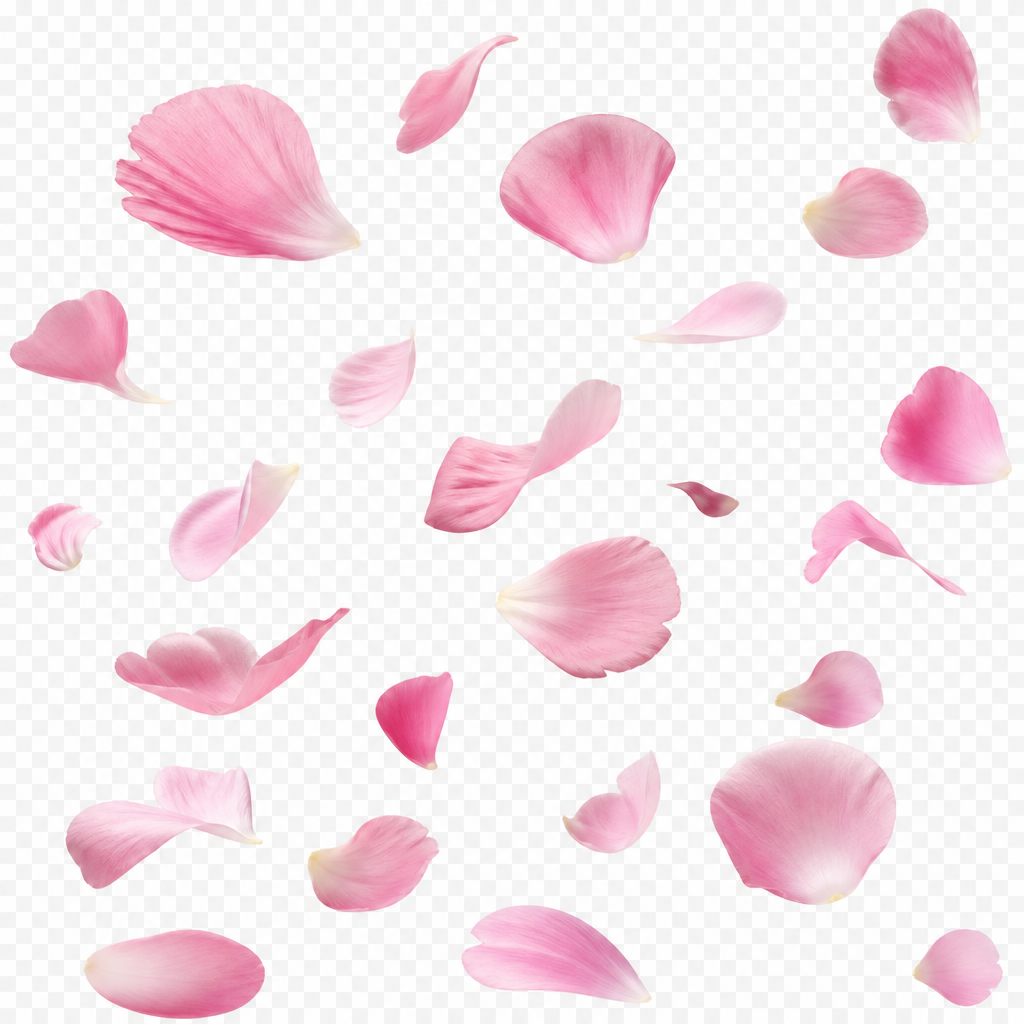
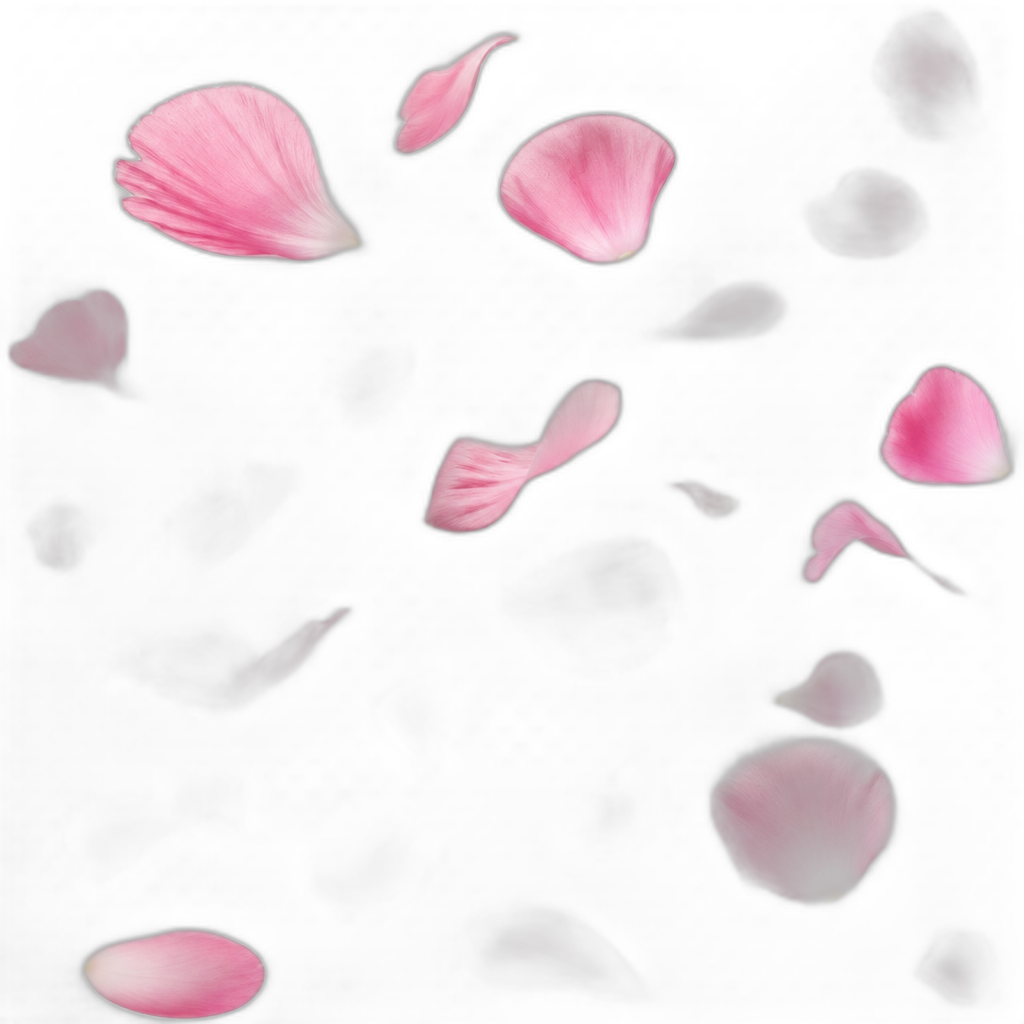
fix(ui): cut out auth petal and bouquet overlays cleanly
Remove baked checkerboard/studio backgrounds from floating floral
overlays so login and signup match the premium hero look.

diff --git a/public/signup.html b/public/signup.html
@@ -12,16 +12,16 @@
   <link rel="stylesheet" href="/bloom-auth.css">
   <link rel="stylesheet" href="/florisyn-brand.css">
   <link rel="stylesheet" href="/florisyn-founder-1.0.css">
-  <link rel="stylesheet" href="/florisyn-atelier-auth.css?v=authhero1">
+  <link rel="stylesheet" href="/florisyn-atelier-auth.css?v=authhero2">
 </head>
 <body class="bloom-auth florisyn florisyn-atelier-auth florisyn-auth-hero florisyn-signup-hero">
   <div class="auth-hero-atmosphere" aria-hidden="true">
     <span class="auth-orb auth-orb-a"></span>
     <span class="auth-orb auth-orb-b"></span>
     <span class="auth-orb auth-orb-c"></span>
-    <img class="auth-petals auth-petals-a" src="/assets/florisyn/florisyn-auth-petals.png?v=authhero1" alt="">
-    <img class="auth-petals auth-petals-b" src="/assets/florisyn/florisyn-auth-petals.png?v=authhero1" alt="">
-    <img class="auth-petals auth-petals-c" src="/assets/florisyn/florisyn-login-florals-corner.png?v=loginmock1" alt="">
+    <img class="auth-petals auth-petals-a" src="/assets/florisyn/florisyn-auth-petals.png?v=authhero2" alt="">
+    <img class="auth-petals auth-petals-b" src="/assets/florisyn/florisyn-auth-petals.png?v=authhero2" alt="">
+    <img class="auth-petals auth-petals-c" src="/assets/florisyn/florisyn-auth-petals.png?v=authhero2" alt="">
   </div>
 
   <header class="auth-hero-nav">
@@ -83,8 +83,8 @@
 
     <section class="auth-hero-visual" aria-label="Florisyn product preview">
       <div class="auth-hero-stage">
-        <img class="auth-hero-devices" src="/assets/florisyn/florisyn-auth-hero-devices.png?v=authhero1" width="1200" height="900" alt="Florisyn dashboard on laptop and phone with fresh floral arrangement">
-        <img class="auth-hero-bloom-float" src="/assets/florisyn/florisyn-auth-bouquet.png?v=authhero1" alt="">
+        <img class="auth-hero-devices" src="/assets/florisyn/florisyn-auth-hero-devices.png?v=authhero2" width="1200" height="900" alt="Florisyn dashboard on laptop and phone with fresh floral arrangement">
+        <img class="auth-hero-bloom-float" src="/assets/florisyn/florisyn-auth-bouquet.png?v=authhero2" alt="">
       </div>
       <div class="auth-hero-visual-copy">
         <p class="eyebrow">14-day free trial</p>

diff --git a/public/login.html b/public/login.html
@@ -12,16 +12,16 @@
   <link rel="stylesheet" href="/bloom-auth.css">
   <link rel="stylesheet" href="/florisyn-brand.css">
   <link rel="stylesheet" href="/florisyn-founder-1.0.css">
-  <link rel="stylesheet" href="/florisyn-atelier-auth.css?v=authhero1">
+  <link rel="stylesheet" href="/florisyn-atelier-auth.css?v=authhero2">
 </head>
 <body class="bloom-auth florisyn florisyn-atelier-auth florisyn-auth-hero florisyn-login-hero">
   <div class="auth-hero-atmosphere" aria-hidden="true">
     <span class="auth-orb auth-orb-a"></span>
     <span class="auth-orb auth-orb-b"></span>
     <span class="auth-orb auth-orb-c"></span>
-    <img class="auth-petals auth-petals-a" src="/assets/florisyn/florisyn-auth-petals.png?v=authhero1" alt="">
-    <img class="auth-petals auth-petals-b" src="/assets/florisyn/florisyn-auth-petals.png?v=authhero1" alt="">
-    <img class="auth-petals auth-petals-c" src="/assets/florisyn/florisyn-login-florals-corner.png?v=loginmock1" alt="">
+    <img class="auth-petals auth-petals-a" src="/assets/florisyn/florisyn-auth-petals.png?v=authhero2" alt="">
+    <img class="auth-petals auth-petals-b" src="/assets/florisyn/florisyn-auth-petals.png?v=authhero2" alt="">
+    <img class="auth-petals auth-petals-c" src="/assets/florisyn/florisyn-auth-petals.png?v=authhero2" alt="">
   </div>
 
   <header class="auth-hero-nav">
@@ -96,8 +96,8 @@
 
     <section class="auth-hero-visual" aria-hidden="true">
       <div class="auth-hero-stage">
-        <img class="auth-hero-devices" src="/assets/florisyn/florisyn-auth-hero-devices.png?v=authhero1" width="1200" height="900" alt="">
-        <img class="auth-hero-bloom-float" src="/assets/florisyn/florisyn-auth-bouquet.png?v=authhero1" alt="">
+        <img class="auth-hero-devices" src="/assets/florisyn/florisyn-auth-hero-devices.png?v=authhero2" width="1200" height="900" alt="">
+        <img class="auth-hero-bloom-float" src="/assets/florisyn/florisyn-auth-bouquet.png?v=authhero2" alt="">
       </div>
     </section>
   </main>

diff --git a/tests/florisyn-auth-hero.test.js b/tests/florisyn-auth-hero.test.js
@@ -9,7 +9,7 @@ const css = fs.readFileSync(new URL("../public/florisyn-atelier-auth.css", impor
 test("login and signup use premium auth hero shell with official mark", () => {
   for (const html of [login, signup]) {
     assert.match(html, /florisyn-auth-hero/);
-    assert.match(html, /florisyn-atelier-auth\.css\?v=authhero1/);
+    assert.match(html, /florisyn-atelier-auth\.css\?v=authhero2/);
     assert.match(html, /florisyn-mark\.png\?v=official1/);
     assert.match(html, /<strong>Florisyn<\/strong>/);
     assert.match(html, /florisyn-auth-hero-devices\.png/);
